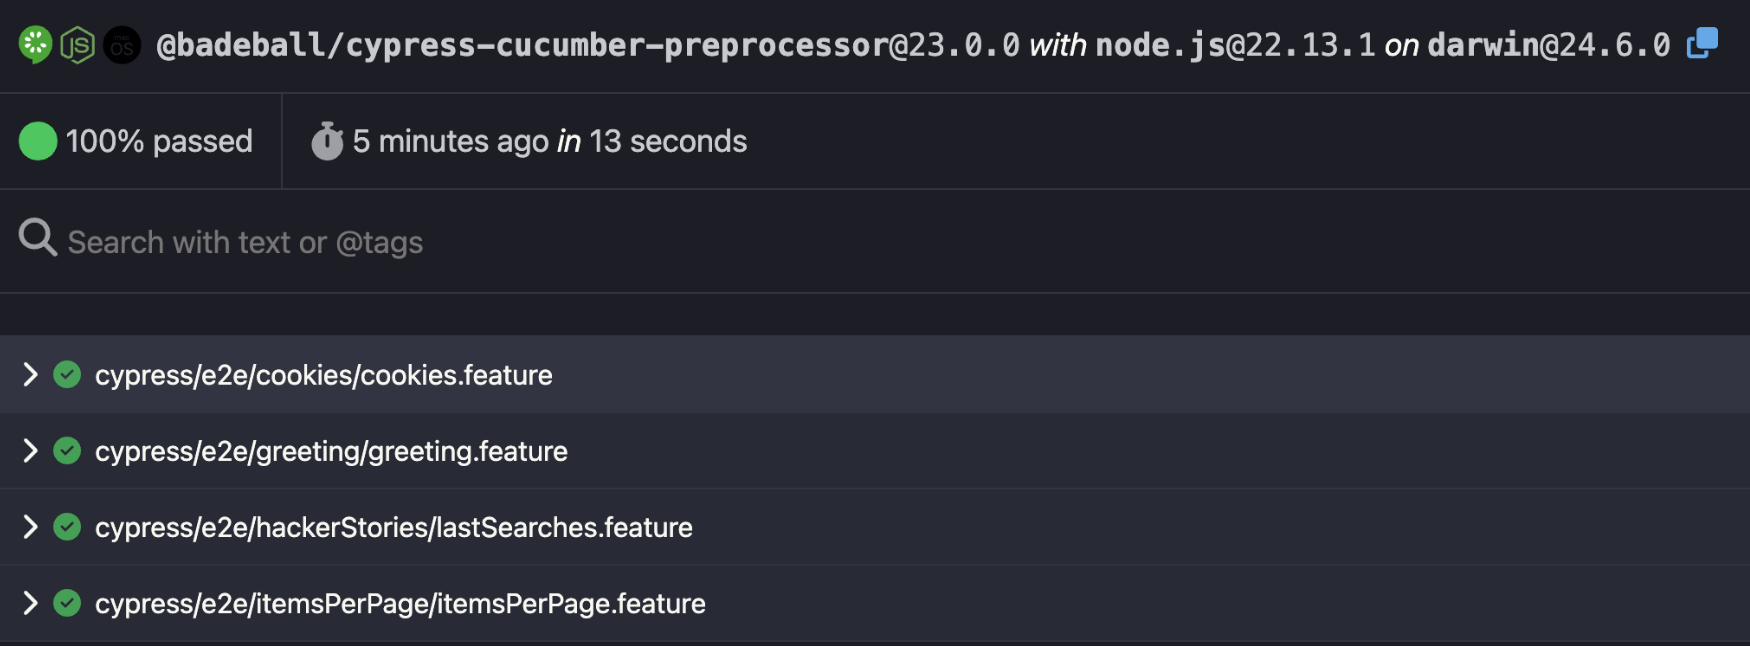
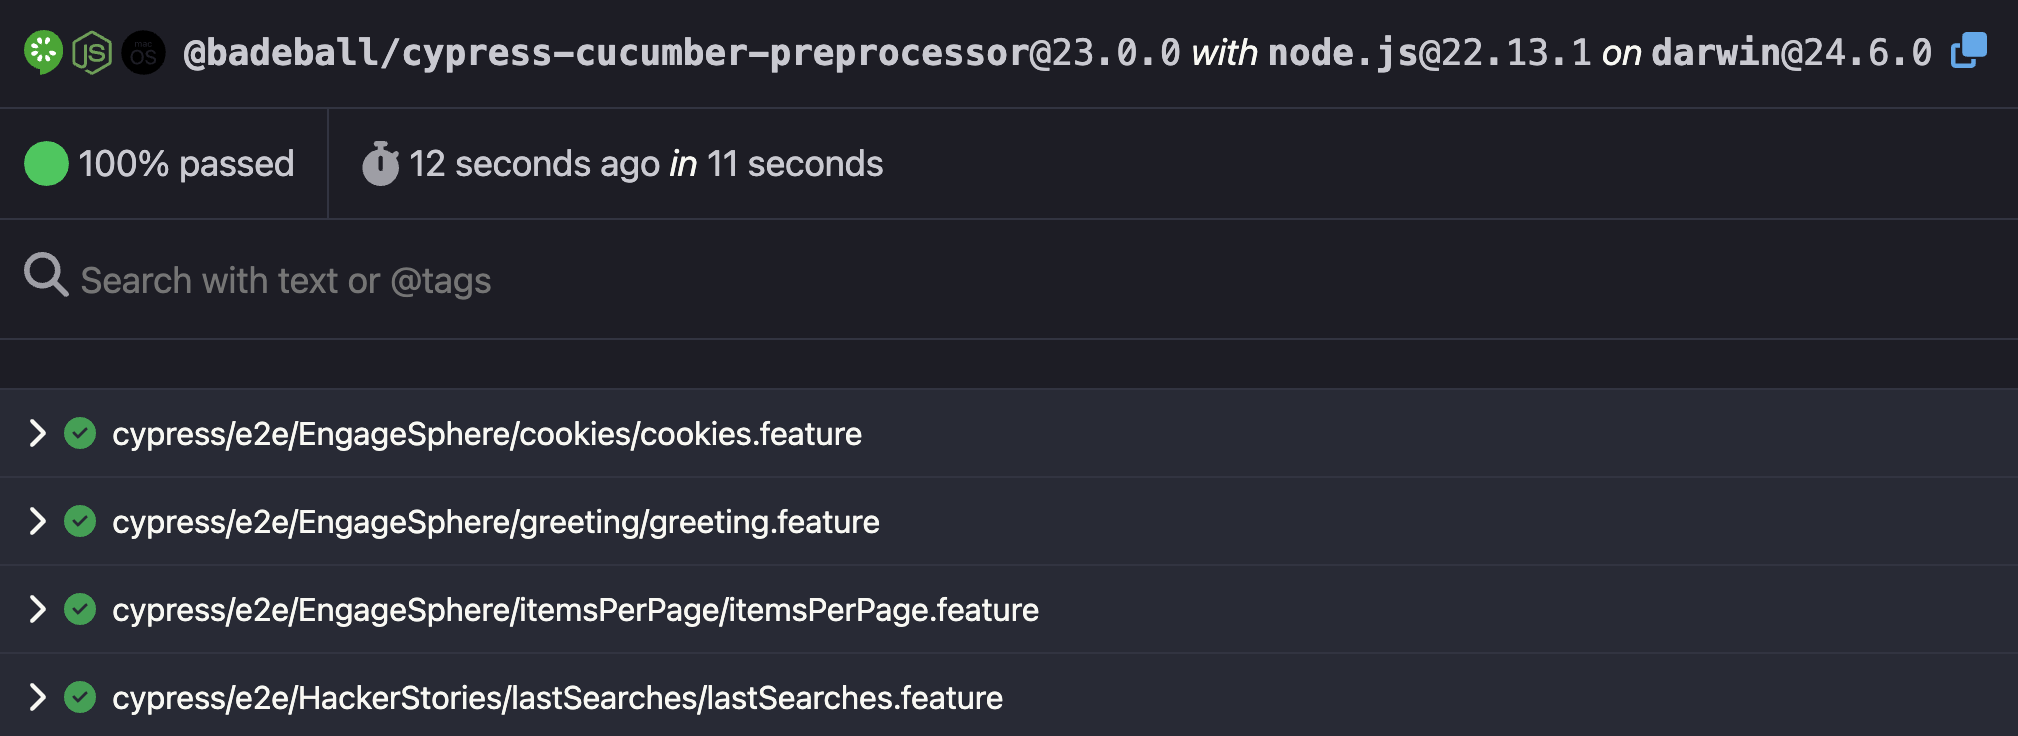
Better organized test per app
Now, tests for the EngageSphere and Hacker Stories apps are inside
their own folders.

Also, new tags and npm scripts were added to run tests per app.

Finally, docs were updated accordingly.

diff --git a/README.md b/README.md
@@ -17,7 +17,7 @@ This project demonstrates how to set up end-to-end testing using **Cypress** wit
 
 ```bash
 git clone <repository-url>
-cd cucumber-salad
+cd cucumber-salad/
 npm install
 ```
 
@@ -41,17 +41,17 @@ Below is the result of a successfull execution.
 (Run Finished)
 
 
-       Spec                                              Tests  Passing  Failing  Pending  Skipped
-  ┌────────────────────────────────────────────────────────────────────────────────────────────────┐
-  │ ✔  cookies/cookies.feature                  00:02        2        2        -        -        - │
-  ├────────────────────────────────────────────────────────────────────────────────────────────────┤
-  │ ✔  greeting/greeting.feature                00:02        3        3        -        -        - │
-  ├────────────────────────────────────────────────────────────────────────────────────────────────┤
-  │ ✔  hackerStories/lastSearches.feature       00:02        1        1        -        -        - │
-  ├────────────────────────────────────────────────────────────────────────────────────────────────┤
-  │ ✔  itemsPerPage/itemsPerPage.feature        00:02        4        4        -        -        - │
-  └────────────────────────────────────────────────────────────────────────────────────────────────┘
-    ✔  All specs passed!                        00:10       10       10        -        -        -
+       Spec                                                          Tests  Passing  Failing  Pending  Skipped
+  ┌────────────────────────────────────────────────────────────────────────────────────────────────────────────┐
+  │ ✔  EngageSphere/greeting/greeting.feature               00:02        3        3        -        -        - │
+  ├────────────────────────────────────────────────────────────────────────────────────────────────────────────┤
+  │ ✔  EngageSphere/cookies/cookies.feature                 00:01        2        2        -        -        - │
+  ├────────────────────────────────────────────────────────────────────────────────────────────────────────────┤
+  │ ✔  EngageSphere/itemsPerPage/itemsPerPage.feature       00:02        4        4        -        -        - │
+  ├────────────────────────────────────────────────────────────────────────────────────────────────────────────┤
+  │ ✔  HackerStories/lastSearches/lastSearches.feature      00:01        1        1        -        -        - │
+  └────────────────────────────────────────────────────────────────────────────────────────────────────────────┘
+    ✔  All specs passed!                                    00:08       10       10        -        -        -
 ```
 
 #### Run Smoke Tests Only
@@ -64,6 +64,18 @@ npm run test:smoke
 
 ```bash
 npm run test:not:smoke
+```
+
+#### Run EngageSphere Tests Only
+
+```bash
+npm run test:engagesphere
+```
+
+#### Run Hacker Stories Tests Only
+
+```bash
+npm run test:hackerstories
 ```
 
 #### Generate HTML Report
@@ -86,41 +98,53 @@ The above commands should open a report like the following.
 
 ```text
 cypress/
-├── e2e/                     # Feature files and step definitions
-│   ├── cookies/             # Cookie consent functionality tests
-│   ├── greeting/            # Greeting functionality tests
-│   ├── hackerStories/       # Hacker Stories app functionality tests
-│   └── itemsPerPage/        # Items per page functionality tests
-├── screenshots/             # Test failure screenshots
+├── e2e/                  # Feature files and step definitions
+│   ├── EngageSphere/     # EngageSphere app functionality tests
+│   │   ├── cookies/      # Cookie consent functionality tests
+│   │   ├── greeting/     # Greeting functionality tests
+│   │   └── itemsPerPage/ # Items per page functionality tests
+│   └── HackerStories/    # Hacker Stories app functionality tests
+│       └── lastSearches/ # Last searches feature tests
+├── screenshots/          # Test failure screenshots
 └── support/
-    ├── commands.js          # Custom Cypress commands
-    ├── e2e.js               # Global test configuration
-    └── step_definitions/
-        └── common.js        # Shared step definitions
+  ├── commands.js         # Custom Cypress commands
+  ├── e2e.js              # Global test configuration
+  └── step_definitions/
+    └── common.js         # Shared step definitions
 ```
 
 ## 🧪 Test Features
 
-### Cookie Consent Banner
+Below are listed the tests for both the EngageSphere and the Hacker Stories apps.
+
+### EngageSphere
+
+Below are listed the features covered by tests for the EngageSphere app with some of the tests' details.
+
+#### Cookie Consent Banner
 
 - Tests cookie consent banner functionality
 - Verifies banner acceptance and decline workflows
 - Validates cookie values are properly set
 
-### Greeting Functionality
+#### Greeting Functionality
 
 - Tests default greeting display
 - Tests customized greeting with user input
 - Icon display validation based on input values
 - Uses data-driven testing with Examples table
 
-### Items Per Page
+#### Items Per Page
 
 - Tests pagination functionality
 - Verifies correct number of items displayed per page
 - Data-driven tests with multiple page sizes (5, 10, 20, 50)
 
 ### Hacker Stories
+
+Below are listed the features covered by tests for the Hacker Stories app with some of the tests' details.
+
+#### Last Searches
 
 - Tests search functionality in the Hacker Stories application
 - Validates last search terms are displayed as buttons
@@ -130,7 +154,8 @@ cypress/
 
 The project uses Cucumber tags for test organization:
 
-- `@smoke` - Critical functionality tests that run in smoke test suite
+- `@smoke` - Critical functionality tests that run in the smoke test suite
+- `@engagesphere` or `@hackerstories` to specify which apps tests should run
 - Tests can be filtered using tags in npm scripts
 
 ## 📊 Reporting
@@ -225,7 +250,7 @@ Tests are designed to run against multiple applications:
 ### Hacker Stories Application
 
 - URL: `https://wlsf82-hacker-stories.web.app/`
-- Search functionality for Hacker News stories
+- Search functionality for Hacker Stories
 - Last searches feature with button display
 - Dynamic search term management
 
